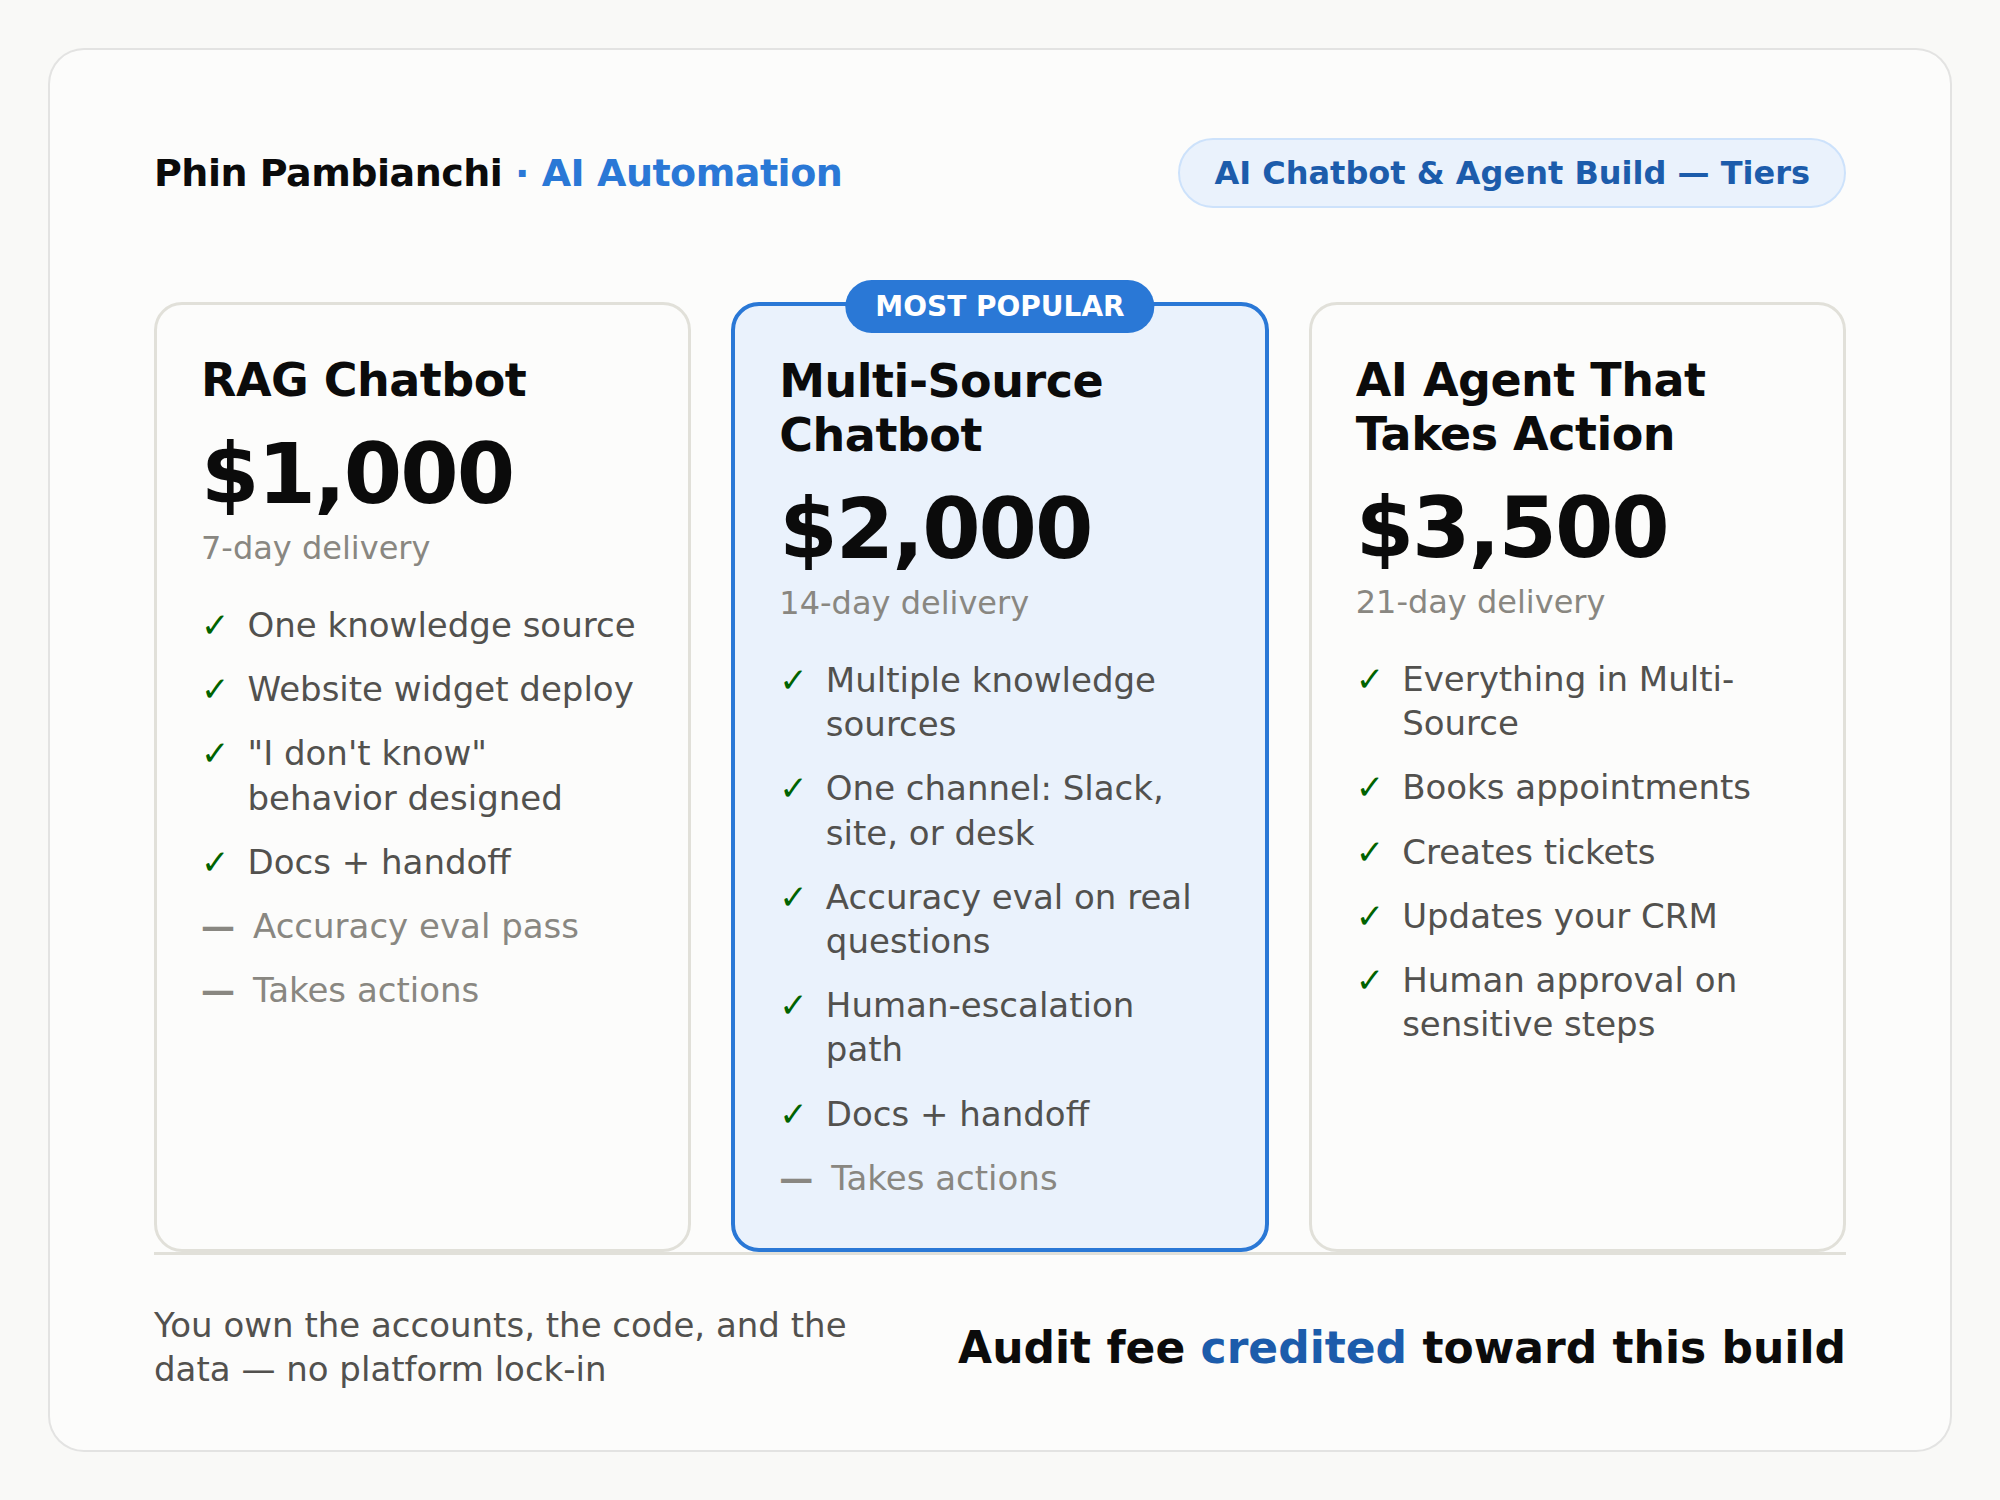
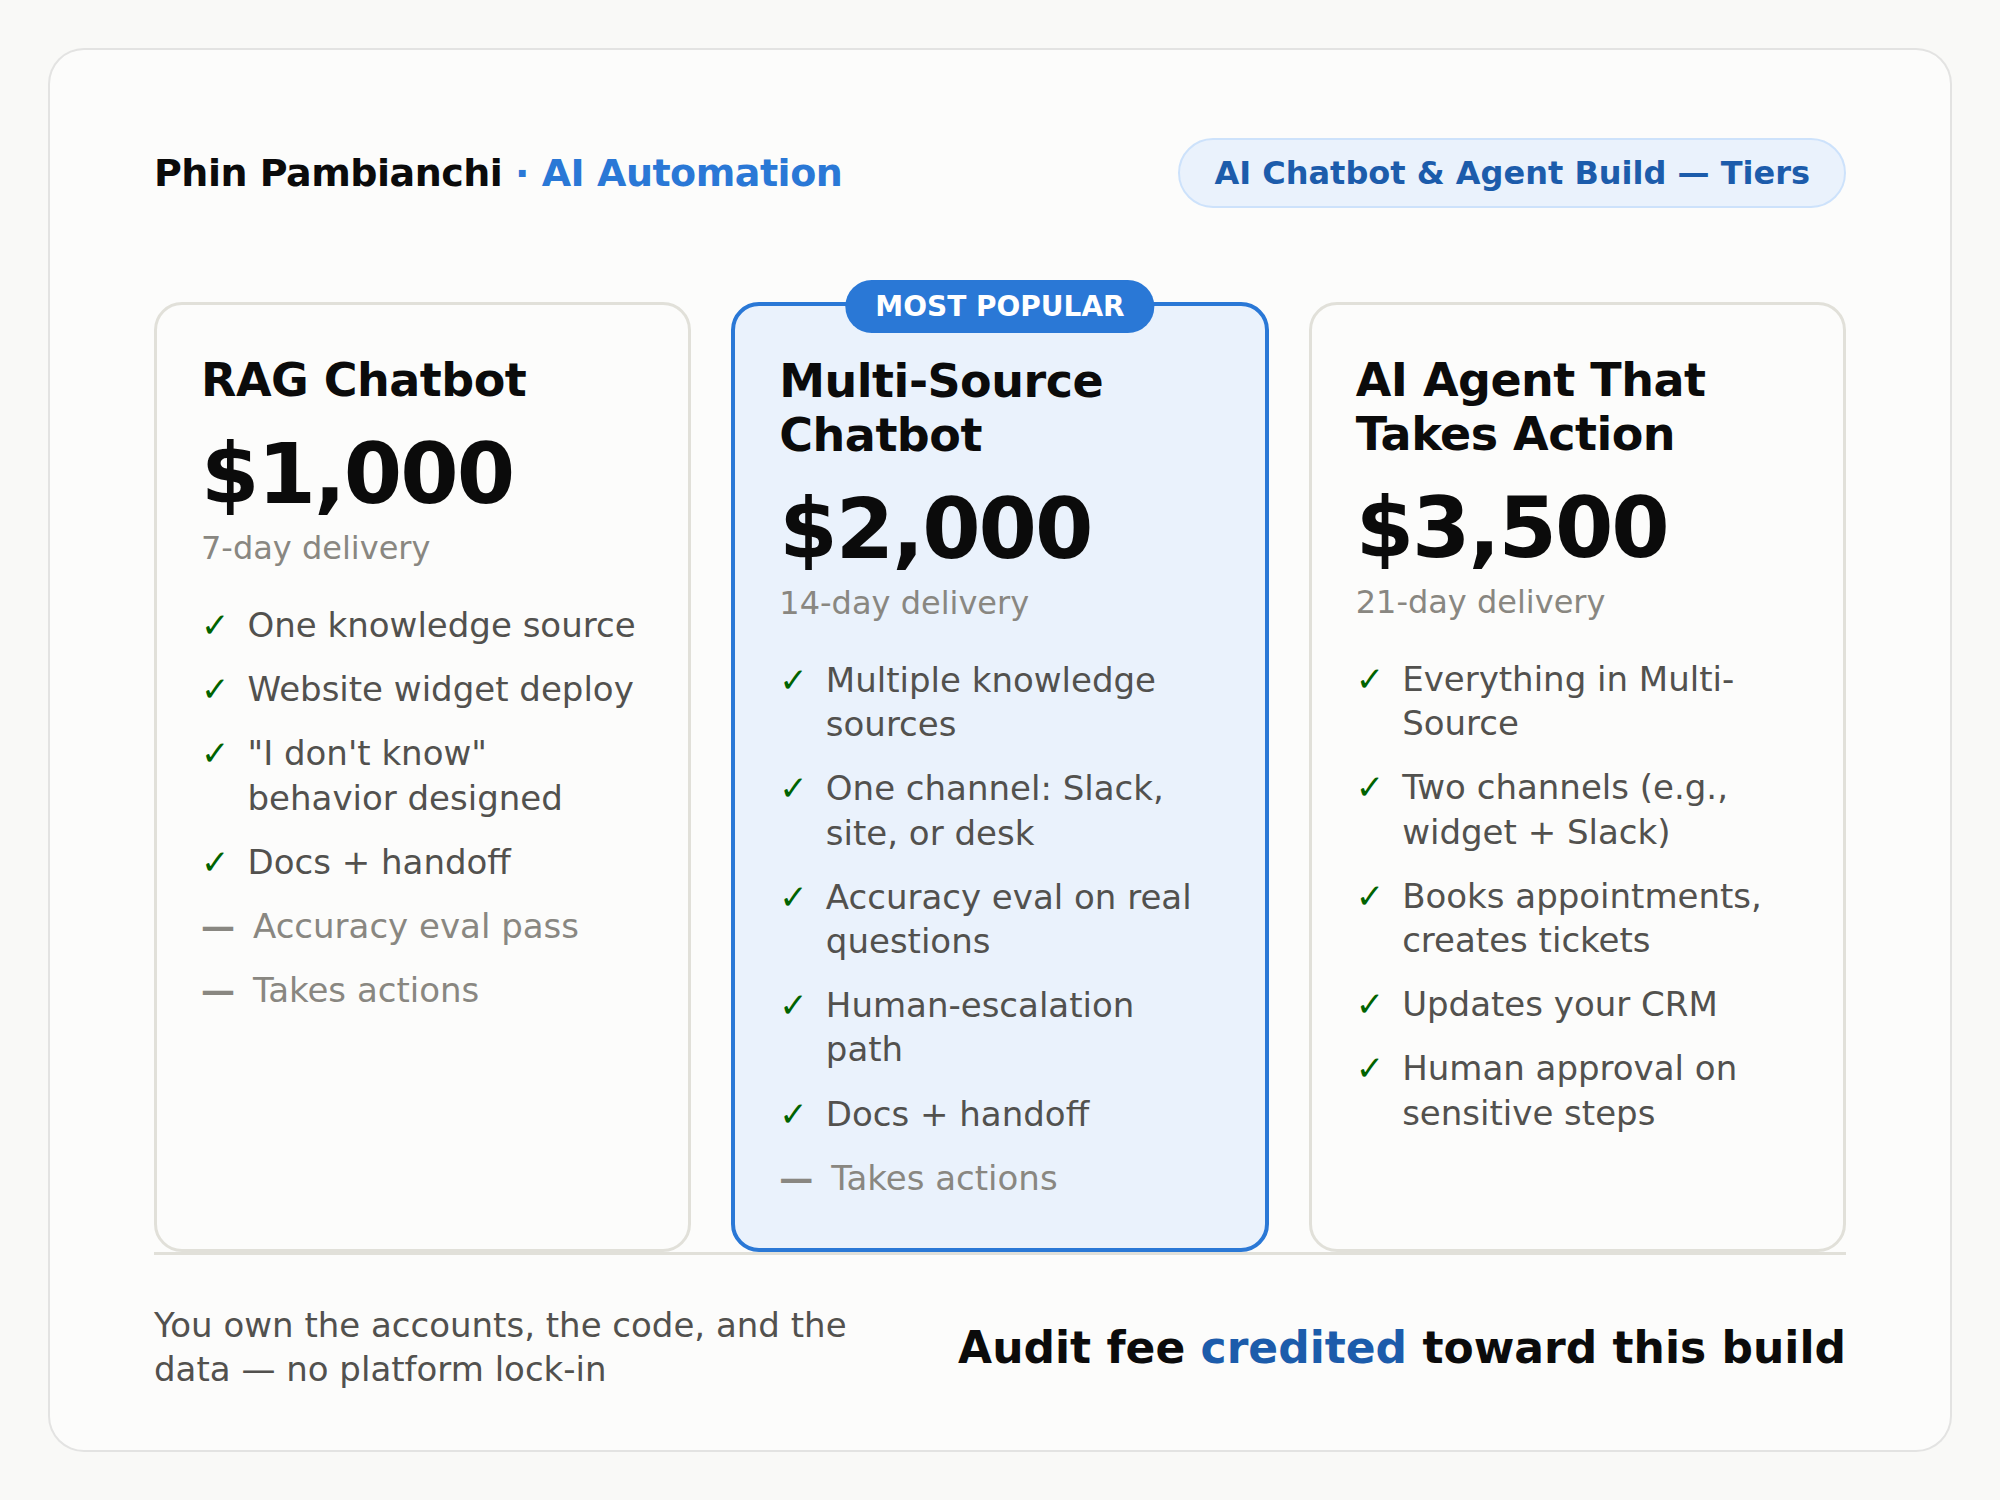
Chatbot tier form: conversation steps, platform counts, tier options grid
Records 10/25/50 conversation steps, 1/1/2 messaging platforms (Advanced
gains a second channel), and the Action Plan/Flow Design/Script/Bug
Fixes/API Integration grid. Advanced tier description and chatbot-4
gallery card updated to show the 2-channel perk.

Claude-Session: https://claude.ai/code/session_017nizmFHuEyAKDmXz1ExpMS

Changed region(s): [[0.682, 0.5213, 0.868, 0.7667]]

diff --git a/ideas/upwork/ai-chatbot-build-catalog.md b/ideas/upwork/ai-chatbot-build-catalog.md
@@ -66,7 +66,7 @@ Workflow Audit — the fee credits toward this build.
 | Field | Starter | Standard | Advanced |
 |---|---|---|---|
 | **Custom title** | RAG Chatbot *(11)* | Multi-Source Chatbot *(20)* | AI Agent That Takes Action *(26)* |
-| **Custom description** | Chatbot grounded in one knowledge source, deployed as a web widget. *(67)* | Multiple sources, one channel (Slack, site, or desk) + accuracy eval. *(69)* | Agent with tools — booking, tickets, CRM updates — human-approved. *(66)* |
+| **Custom description** | Chatbot grounded in one knowledge source, deployed as a web widget. *(67)* | Multiple sources, one channel (Slack, site, or desk) + accuracy eval. *(69)* | Agent with tools — booking, tickets, CRM — 2 channels, human-approved. *(70)* |
 | **Delivery days** | 7 | 14 | 21 |
 | **Live consultation (min)** | 30 | 60 | 90 |
 | **Price** | $1,000 | $2,000 | $3,500 |
@@ -79,14 +79,28 @@ agent — it does things, not just says things, with human approval gates.
 
 ### Service tier options (buyer-facing checkbox grid)
 
-Same pattern as the Automation Build grid — eight all-tier checks (AI Model
-Integration, Prompt Engineering, Natural Language Processing, Detailed Code Comments,
-Model Documentation, Model Deployment, Setup File, Source Code), then the ladder:
-**Database Integration** and **Model Testing & Optimization** from Standard up
-(multi-source retrieval + the accuracy eval pass), **Model Tuning** from Standard up
-(retrieval/tone tuning against real questions), **Model Monitoring** on Advanced only.
-**Never check:** Batch Normalization, Image Upscaling, MLOps, NLP Tokenization,
-Pre-Training.
+If the ML-flavored grid appears (same options as the Automation Build listing): eight
+all-tier checks (AI Model Integration, Prompt Engineering, Natural Language
+Processing, Detailed Code Comments, Model Documentation, Model Deployment, Setup
+File, Source Code), then the ladder: **Database Integration** and **Model Testing &
+Optimization** from Standard up (multi-source retrieval + the accuracy eval pass),
+**Model Tuning** from Standard up (retrieval/tone tuning against real questions),
+**Model Monitoring** on Advanced only. **Never check:** Batch Normalization, Image
+Upscaling, MLOps, NLP Tokenization, Pre-Training.
+
+The chatbot-specific form variant (observed on the live form):
+
+- **Number of Conversation Steps: 10 / 25 / 50** — legacy dialog-tree field; LLM bots
+  aren't step-limited, so pick a clean ladder that's trivially over-delivered.
+- **Number of Messaging Platforms: 1 / 1 / 2** — Advanced gets a second surface
+  (e.g., widget + Slack); the retrieval layer is shared so it's cheap to deliver and
+  visibly justifies $3,500. (Advanced tier bullet: add "2 channels".)
+- Grid: **Action Plan ✓✓✓ · Chatbot Flow Design ✓✓✓ · Conversation Script ✓✓✓ · Bug
+  Fixes ✓✓✓ · API Integration —✓✓**. Flow Design/Script = prompt architecture + the
+  designed "I don't know" behavior (every tier — that's the product); API Integration
+  ladders because buyers read it as "connects to my systems" (Slack/desk at Standard,
+  actions at Advanced) — off Starter signals the entry tier is a widget, not an
+  integration project.
 
 ## Project steps (buyer-visible)
 
